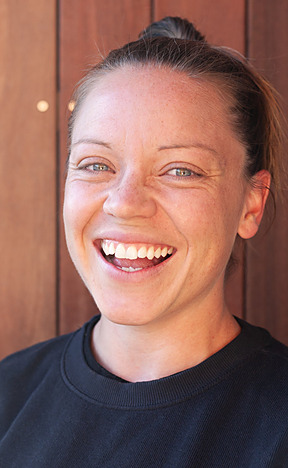
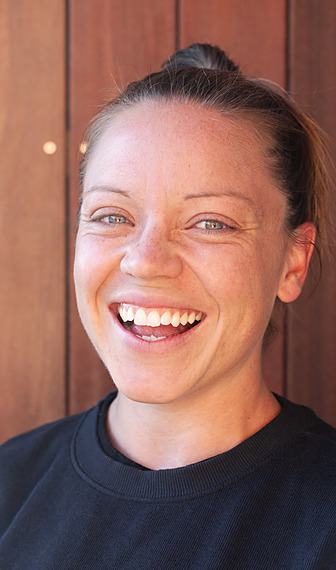
Signature: stacked title, narrower layout, nothing clipped
Claude-Session: https://claude.ai/code/session_01VA5kN6YvoouDBQV9ahBGxj

diff --git a/email-signature.html b/email-signature.html
@@ -23,19 +23,20 @@
 <!-- ===================== SIGNATURE START ===================== -->
 <table cellpadding="0" cellspacing="0" border="0" style="border-collapse:collapse;font-family:Arial,Helvetica,sans-serif;">
   <tr>
-    <td width="96" style="width:96px;padding:0 14px 0 0;vertical-align:top;">
+    <td width="112" style="width:112px;padding:0 14px 0 0;vertical-align:top;">
       <a href="https://ammedianz.com" style="text-decoration:none;">
-        <img src="https://ammedianz.com/images/email/ane.jpg" width="96" height="156" alt="Ane McGrail" style="display:block;width:96px;max-width:96px;height:auto;border:0;">
+        <img src="https://ammedianz.com/images/email/ane.jpg" width="112" height="190" alt="Ane McGrail" style="display:block;width:112px;max-width:112px;height:auto;border:0;">
       </a>
     </td>
     <td style="padding:0 0 0 14px;border-left:1px solid #ddd7ce;vertical-align:top;">
-      <div style="font-family:Georgia,'Times New Roman',serif;font-size:20px;line-height:24px;color:#0c0c0c;white-space:nowrap;">Ane McGrail</div>
-      <div style="font-size:10px;line-height:16px;letter-spacing:1px;text-transform:uppercase;color:#6e6a64;padding:2px 0 8px;white-space:nowrap;">Photographer &amp; filmmaker</div>
-      <div style="font-size:12px;line-height:18px;letter-spacing:3px;color:#0c0c0c;padding:0 0 8px;white-space:nowrap;">AM MEDIA <span style="color:#b54a1c;">NZ</span></div>
-      <div style="font-size:12px;line-height:18px;white-space:nowrap;"><a href="tel:+64211914837" style="color:#3a3a3a;text-decoration:none;">021 191 4837</a></div>
-      <div style="font-size:12px;line-height:18px;white-space:nowrap;"><a href="mailto:ane@ammedianz.com" style="color:#3a3a3a;text-decoration:none;">ane@ammedianz.com</a></div>
-      <div style="font-size:12px;line-height:18px;white-space:nowrap;"><a href="https://ammedianz.com" style="color:#b54a1c;text-decoration:none;">ammedianz.com</a>&nbsp;<span style="color:#ddd7ce;">|</span>&nbsp;<a href="https://instagram.com/ammedia_nz" style="color:#b54a1c;text-decoration:none;">@ammedia_nz</a></div>
-      <div style="font-family:Georgia,'Times New Roman',serif;font-style:italic;font-size:13px;line-height:18px;color:#6e6a64;padding-top:8px;white-space:nowrap;">Have camera, will travel.</div>
+      <div style="font-family:Georgia,'Times New Roman',serif;font-size:20px;line-height:24px;color:#0c0c0c;">Ane McGrail</div>
+      <div style="font-size:10px;line-height:16px;letter-spacing:1px;text-transform:uppercase;color:#6e6a64;padding:2px 0 8px;">Photographer<br>&amp; filmmaker</div>
+      <div style="font-size:12px;line-height:18px;letter-spacing:3px;color:#0c0c0c;padding:0 0 8px;">AM MEDIA <span style="color:#b54a1c;">NZ</span></div>
+      <div style="font-size:12px;line-height:18px;"><a href="tel:+64211914837" style="color:#3a3a3a;text-decoration:none;">021 191 4837</a></div>
+      <div style="font-size:12px;line-height:18px;"><a href="mailto:ane@ammedianz.com" style="color:#3a3a3a;text-decoration:none;">ane@ammedianz.com</a></div>
+      <div style="font-size:12px;line-height:18px;"><a href="https://ammedianz.com" style="color:#b54a1c;text-decoration:none;">ammedianz.com</a></div>
+      <div style="font-size:12px;line-height:18px;"><a href="https://instagram.com/ammedia_nz" style="color:#b54a1c;text-decoration:none;">@ammedia_nz</a></div>
+      <div style="font-family:Georgia,'Times New Roman',serif;font-style:italic;font-size:13px;line-height:18px;color:#6e6a64;padding-top:8px;">Have camera, will travel.</div>
     </td>
   </tr>
 </table>
@@ -46,19 +47,20 @@
   <p class="note">Spark takes the signature as HTML code. Copy the code with the button, then paste it in.</p>
   <textarea id="sig-code" readonly style="width:100%;height:140px;font:12px/1.4 monospace;padding:12px;border:1px solid #ddd7ce;background:#fff;box-sizing:border-box;">&lt;table cellpadding=&quot;0&quot; cellspacing=&quot;0&quot; border=&quot;0&quot; style=&quot;border-collapse:collapse;font-family:Arial,Helvetica,sans-serif;&quot;&gt;
   &lt;tr&gt;
-    &lt;td width=&quot;96&quot; style=&quot;width:96px;padding:0 14px 0 0;vertical-align:top;&quot;&gt;
+    &lt;td width=&quot;112&quot; style=&quot;width:112px;padding:0 14px 0 0;vertical-align:top;&quot;&gt;
       &lt;a href=&quot;https://ammedianz.com&quot; style=&quot;text-decoration:none;&quot;&gt;
-        &lt;img src=&quot;https://ammedianz.com/images/email/ane.jpg&quot; width=&quot;96&quot; height=&quot;156&quot; alt=&quot;Ane McGrail&quot; style=&quot;display:block;width:96px;max-width:96px;height:auto;border:0;&quot;&gt;
+        &lt;img src=&quot;https://ammedianz.com/images/email/ane.jpg&quot; width=&quot;112&quot; height=&quot;190&quot; alt=&quot;Ane McGrail&quot; style=&quot;display:block;width:112px;max-width:112px;height:auto;border:0;&quot;&gt;
       &lt;/a&gt;
     &lt;/td&gt;
     &lt;td style=&quot;padding:0 0 0 14px;border-left:1px solid #ddd7ce;vertical-align:top;&quot;&gt;
-      &lt;div style=&quot;font-family:Georgia,&#x27;Times New Roman&#x27;,serif;font-size:20px;line-height:24px;color:#0c0c0c;white-space:nowrap;&quot;&gt;Ane McGrail&lt;/div&gt;
-      &lt;div style=&quot;font-size:10px;line-height:16px;letter-spacing:1px;text-transform:uppercase;color:#6e6a64;padding:2px 0 8px;white-space:nowrap;&quot;&gt;Photographer &amp;amp; filmmaker&lt;/div&gt;
-      &lt;div style=&quot;font-size:12px;line-height:18px;letter-spacing:3px;color:#0c0c0c;padding:0 0 8px;white-space:nowrap;&quot;&gt;AM MEDIA &lt;span style=&quot;color:#b54a1c;&quot;&gt;NZ&lt;/span&gt;&lt;/div&gt;
-      &lt;div style=&quot;font-size:12px;line-height:18px;white-space:nowrap;&quot;&gt;&lt;a href=&quot;tel:+64211914837&quot; style=&quot;color:#3a3a3a;text-decoration:none;&quot;&gt;021 191 4837&lt;/a&gt;&lt;/div&gt;
-      &lt;div style=&quot;font-size:12px;line-height:18px;white-space:nowrap;&quot;&gt;&lt;a href=&quot;mailto:ane@ammedianz.com&quot; style=&quot;color:#3a3a3a;text-decoration:none;&quot;&gt;ane@ammedianz.com&lt;/a&gt;&lt;/div&gt;
-      &lt;div style=&quot;font-size:12px;line-height:18px;white-space:nowrap;&quot;&gt;&lt;a href=&quot;https://ammedianz.com&quot; style=&quot;color:#b54a1c;text-decoration:none;&quot;&gt;ammedianz.com&lt;/a&gt;&amp;nbsp;&lt;span style=&quot;color:#ddd7ce;&quot;&gt;|&lt;/span&gt;&amp;nbsp;&lt;a href=&quot;https://instagram.com/ammedia_nz&quot; style=&quot;color:#b54a1c;text-decoration:none;&quot;&gt;@ammedia_nz&lt;/a&gt;&lt;/div&gt;
-      &lt;div style=&quot;font-family:Georgia,&#x27;Times New Roman&#x27;,serif;font-style:italic;font-size:13px;line-height:18px;color:#6e6a64;padding-top:8px;white-space:nowrap;&quot;&gt;Have camera, will travel.&lt;/div&gt;
+      &lt;div style=&quot;font-family:Georgia,&#x27;Times New Roman&#x27;,serif;font-size:20px;line-height:24px;color:#0c0c0c;&quot;&gt;Ane McGrail&lt;/div&gt;
+      &lt;div style=&quot;font-size:10px;line-height:16px;letter-spacing:1px;text-transform:uppercase;color:#6e6a64;padding:2px 0 8px;&quot;&gt;Photographer&lt;br&gt;&amp;amp; filmmaker&lt;/div&gt;
+      &lt;div style=&quot;font-size:12px;line-height:18px;letter-spacing:3px;color:#0c0c0c;padding:0 0 8px;&quot;&gt;AM MEDIA &lt;span style=&quot;color:#b54a1c;&quot;&gt;NZ&lt;/span&gt;&lt;/div&gt;
+      &lt;div style=&quot;font-size:12px;line-height:18px;&quot;&gt;&lt;a href=&quot;tel:+64211914837&quot; style=&quot;color:#3a3a3a;text-decoration:none;&quot;&gt;021 191 4837&lt;/a&gt;&lt;/div&gt;
+      &lt;div style=&quot;font-size:12px;line-height:18px;&quot;&gt;&lt;a href=&quot;mailto:ane@ammedianz.com&quot; style=&quot;color:#3a3a3a;text-decoration:none;&quot;&gt;ane@ammedianz.com&lt;/a&gt;&lt;/div&gt;
+      &lt;div style=&quot;font-size:12px;line-height:18px;&quot;&gt;&lt;a href=&quot;https://ammedianz.com&quot; style=&quot;color:#b54a1c;text-decoration:none;&quot;&gt;ammedianz.com&lt;/a&gt;&lt;/div&gt;
+      &lt;div style=&quot;font-size:12px;line-height:18px;&quot;&gt;&lt;a href=&quot;https://instagram.com/ammedia_nz&quot; style=&quot;color:#b54a1c;text-decoration:none;&quot;&gt;@ammedia_nz&lt;/a&gt;&lt;/div&gt;
+      &lt;div style=&quot;font-family:Georgia,&#x27;Times New Roman&#x27;,serif;font-style:italic;font-size:13px;line-height:18px;color:#6e6a64;padding-top:8px;&quot;&gt;Have camera, will travel.&lt;/div&gt;
     &lt;/td&gt;
   &lt;/tr&gt;
 &lt;/table&gt;</textarea>
